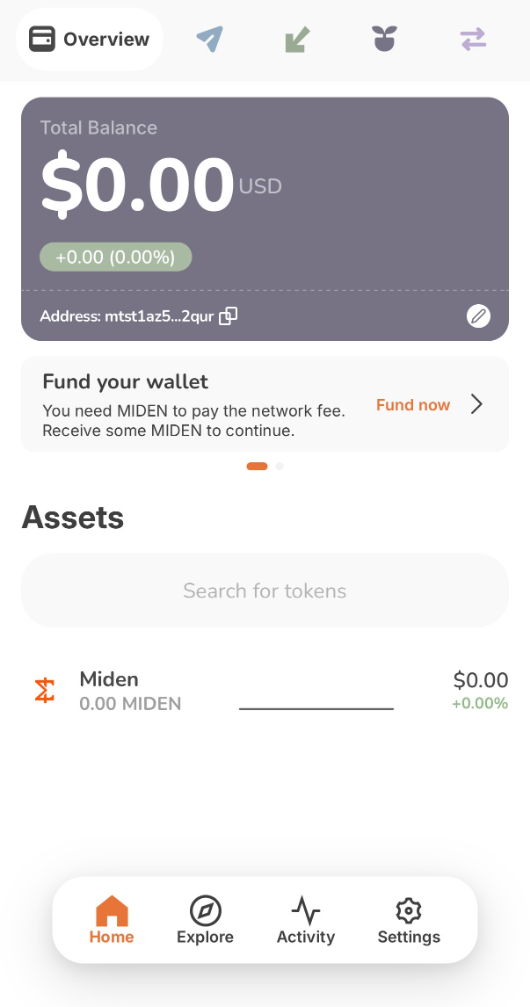
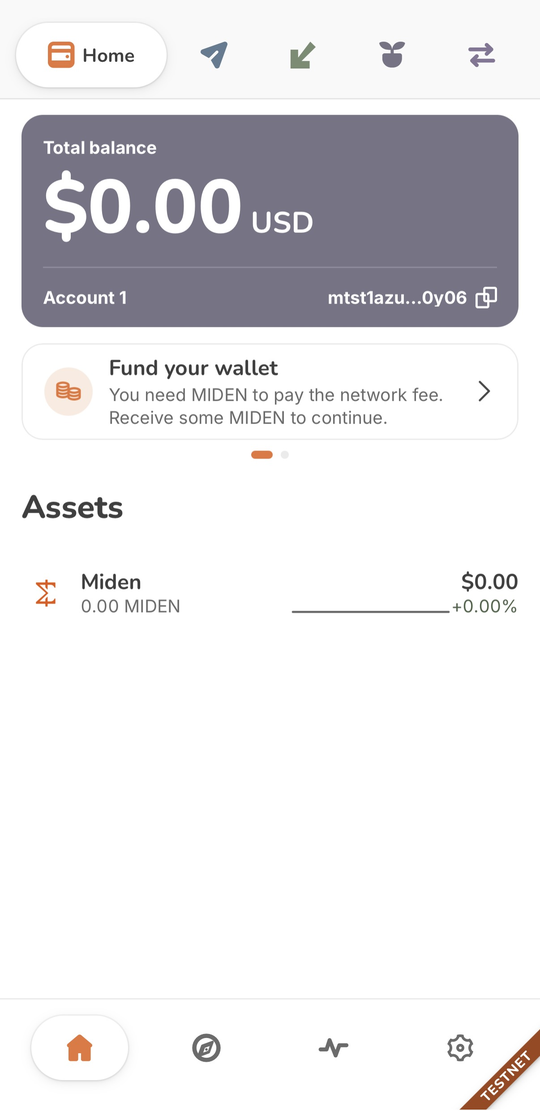
content: Mobile screenshots retaken on wallet 1.16.2
Ivan's iPhone screenshots of create, fund and restore on 1.16.2, scaled to
540px to match the sidebar set. New: M04b Help improve Wallet, M05a the
Funding card, M10b Choose your import type. M06 Wallet funded is retired;
1.16.2 shows no such sheet. M01 is unchanged.

Part of #34.

diff --git a/src/help-center/content.ts b/src/help-center/content.ts
@@ -158,24 +158,27 @@ const ARTICLE_IMAGE_SIZES: Readonly<Record<string, readonly [number, number]>> =
 export type ScreenshotSize = readonly [number, number] | readonly [number, number, 'narrow'];
 
 export const SCREENSHOT_SIZES: Readonly<Record<string, ScreenshotSize>> = {
-  // Phone captures, prepared to the phone capture spec (530px wide).
+  // Phone captures, prepared to the phone capture spec: 540px wide from the 1.16.2 run, the
+  // sidebar width; M01 is still the 530px capture from 1.16.1.
   'M01-install-app-store.png': [530, 888, 'narrow'],
-  'M02-create-welcome.png': [530, 1013, 'narrow'],
-  'M02a-create-testnet-notice.png': [530, 1010, 'narrow'],
-  'M03-create-protect.png': [530, 1006, 'narrow'],
-  'M03a-create-face-id.png': [530, 1010, 'narrow'],
-  'M03b-create-confirmed.png': [530, 1013, 'narrow'],
-  'M04-create-guardian.png': [530, 1012, 'narrow'],
-  'M04a-create-ready.png': [530, 1013, 'narrow'],
-  'M05-fund-home.png': [530, 1007, 'narrow'],
-  'M06-fund-wallet-funded.png': [530, 1015, 'narrow'],
-  'M07-fund-activity.png': [530, 1011, 'narrow'],
-  'M10-restore-welcome.png': [530, 1013, 'narrow'],
-  'M10a-restore-testnet-notice.png': [530, 1010, 'narrow'],
-  'M12-restore-phrase.png': [530, 747, 'narrow'],
-  'M13-restore-recovery-method.png': [530, 1012, 'narrow'],
-  'M14-restore-ready.png': [530, 1013, 'narrow'],
-  'M14a-restore-rotating-key.png': [530, 1062, 'narrow'],
+  'M02-create-welcome.png': [540, 1116, 'narrow'],
+  'M02a-create-testnet-notice.png': [540, 1115, 'narrow'],
+  'M03-create-protect.png': [540, 1110, 'narrow'],
+  'M03a-create-face-id.png': [540, 1108, 'narrow'],
+  'M03b-create-confirmed.png': [540, 1114, 'narrow'],
+  'M04-create-guardian.png': [540, 1116, 'narrow'],
+  'M04a-create-ready.png': [540, 1116, 'narrow'],
+  'M04b-create-help-improve.png': [540, 1116, 'narrow'],
+  'M05-fund-home.png': [540, 1111, 'narrow'],
+  'M05a-fund-funding.png': [540, 1113, 'narrow'],
+  'M07-fund-activity.png': [540, 1115, 'narrow'],
+  'M10-restore-welcome.png': [540, 1113, 'narrow'],
+  'M10a-restore-testnet-notice.png': [540, 1112, 'narrow'],
+  'M10b-restore-import-type.png': [540, 1115, 'narrow'],
+  'M12-restore-phrase.png': [540, 1015, 'narrow'],
+  'M13-restore-recovery-method.png': [540, 1110, 'narrow'],
+  'M14-restore-ready.png': [540, 1110, 'narrow'],
+  'M14a-restore-rotating-key.png': [540, 1110, 'narrow'],
   'E01-install-web-store.png': [1783, 363],
   'E01a-install-add-extension.png': [870, 486, 'narrow'],
   'E02-install-pin.png': [870, 487, 'narrow'],

diff --git a/e2e/step-screenshots.spec.ts b/e2e/step-screenshots.spec.ts
@@ -24,9 +24,9 @@ const CONSUMING = '/#common-issues-and-support/my-token-is-stuck-on-consuming-re
 
 for (const { article, route, count } of [
   { article: 'mobile install', route: INSTALL_MOBILE, count: 1 },
-  { article: 'mobile create', route: CREATE_MOBILE, count: 7 },
+  { article: 'mobile create', route: CREATE_MOBILE, count: 8 },
   { article: 'mobile fund', route: FUND_MOBILE, count: 3 },
-  { article: 'mobile restore', route: RESTORE_MOBILE, count: 6 },
+  { article: 'mobile restore', route: RESTORE_MOBILE, count: 7 },
   { article: 'install', route: INSTALL, count: 3 },
   { article: 'create', route: CREATE, count: 6 },
   { article: 'restore', route: RESTORE, count: 8 },

diff --git a/src/help-center/content.test.ts b/src/help-center/content.test.ts
@@ -684,11 +684,13 @@ describe('fidelity to the FAQ', () => {
       'M03b-create-confirmed.png',
       'M04-create-guardian.png',
       'M04a-create-ready.png',
+      'M04b-create-help-improve.png',
       'M05-fund-home.png',
-      'M06-fund-wallet-funded.png',
+      'M05a-fund-funding.png',
       'M07-fund-activity.png',
       'M10-restore-welcome.png',
       'M10a-restore-testnet-notice.png',
+      'M10b-restore-import-type.png',
       'M12-restore-phrase.png',
       'M13-restore-recovery-method.png',
       'M14-restore-ready.png',
